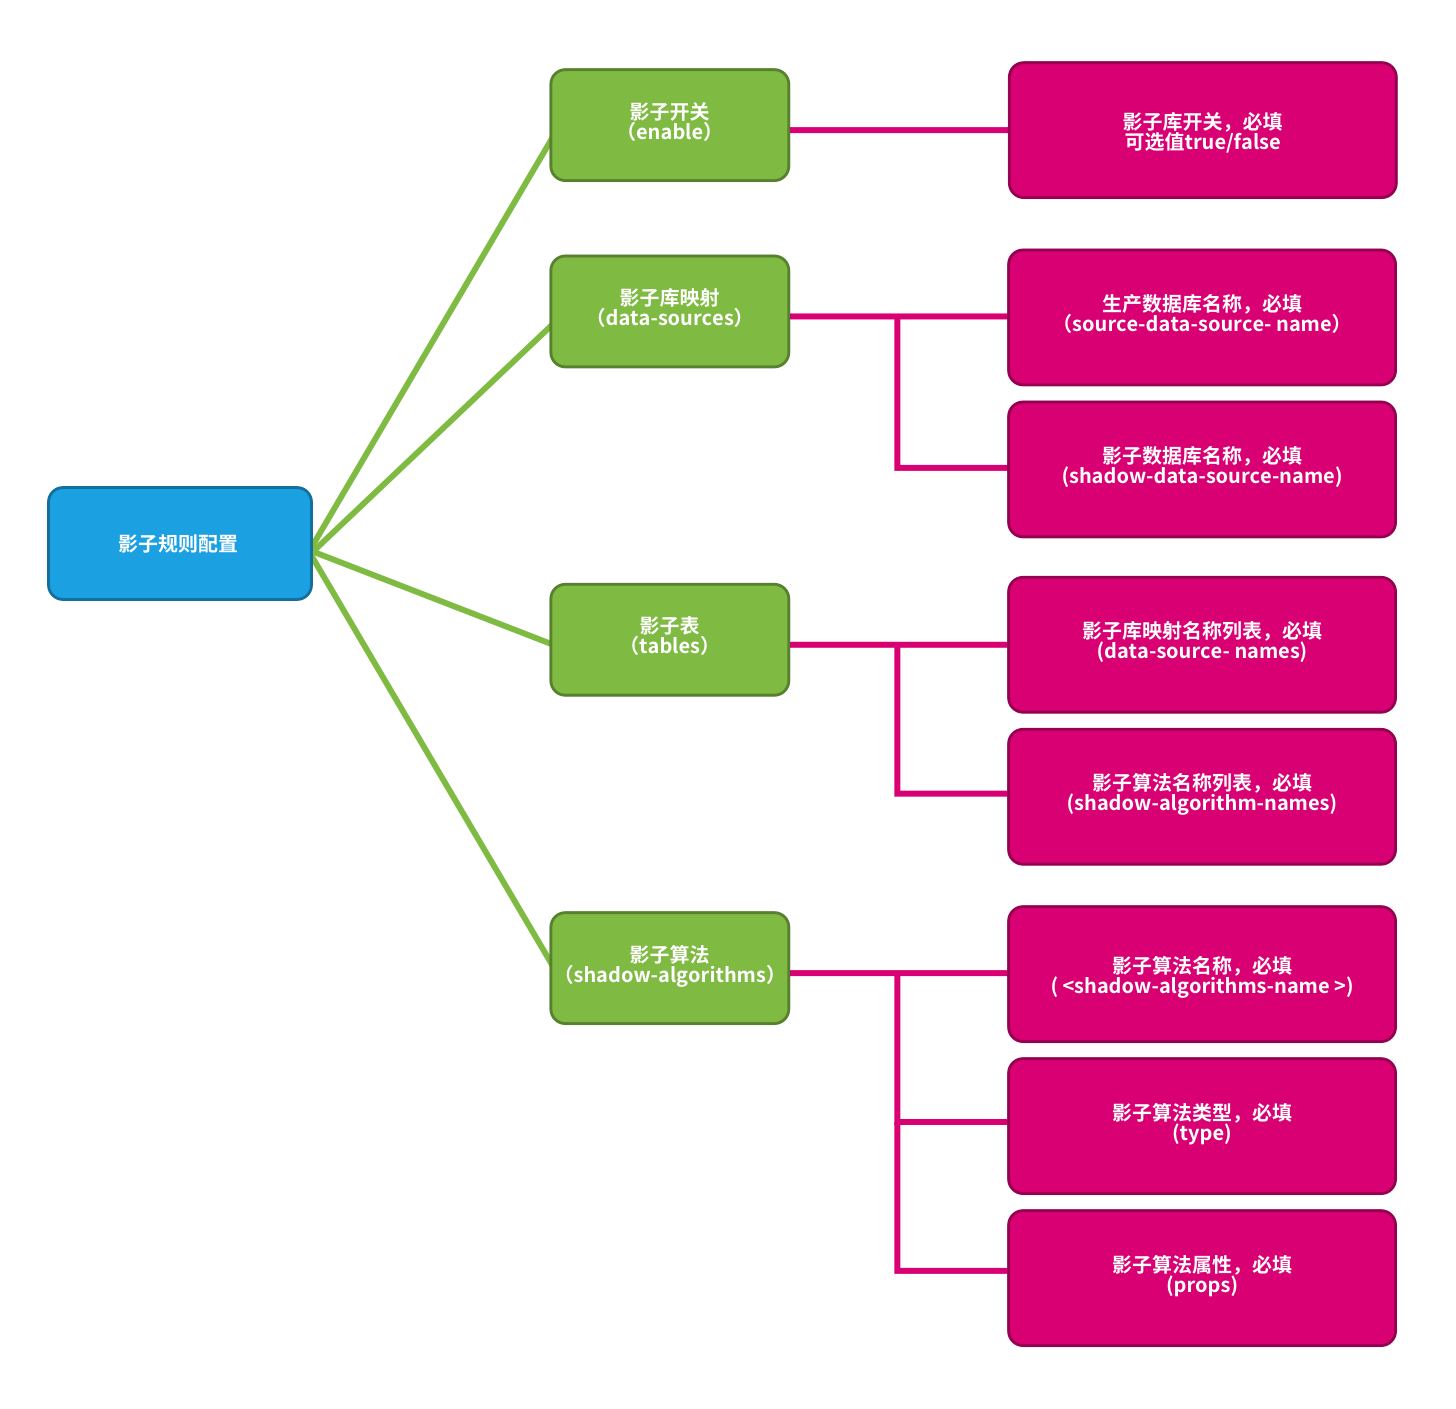
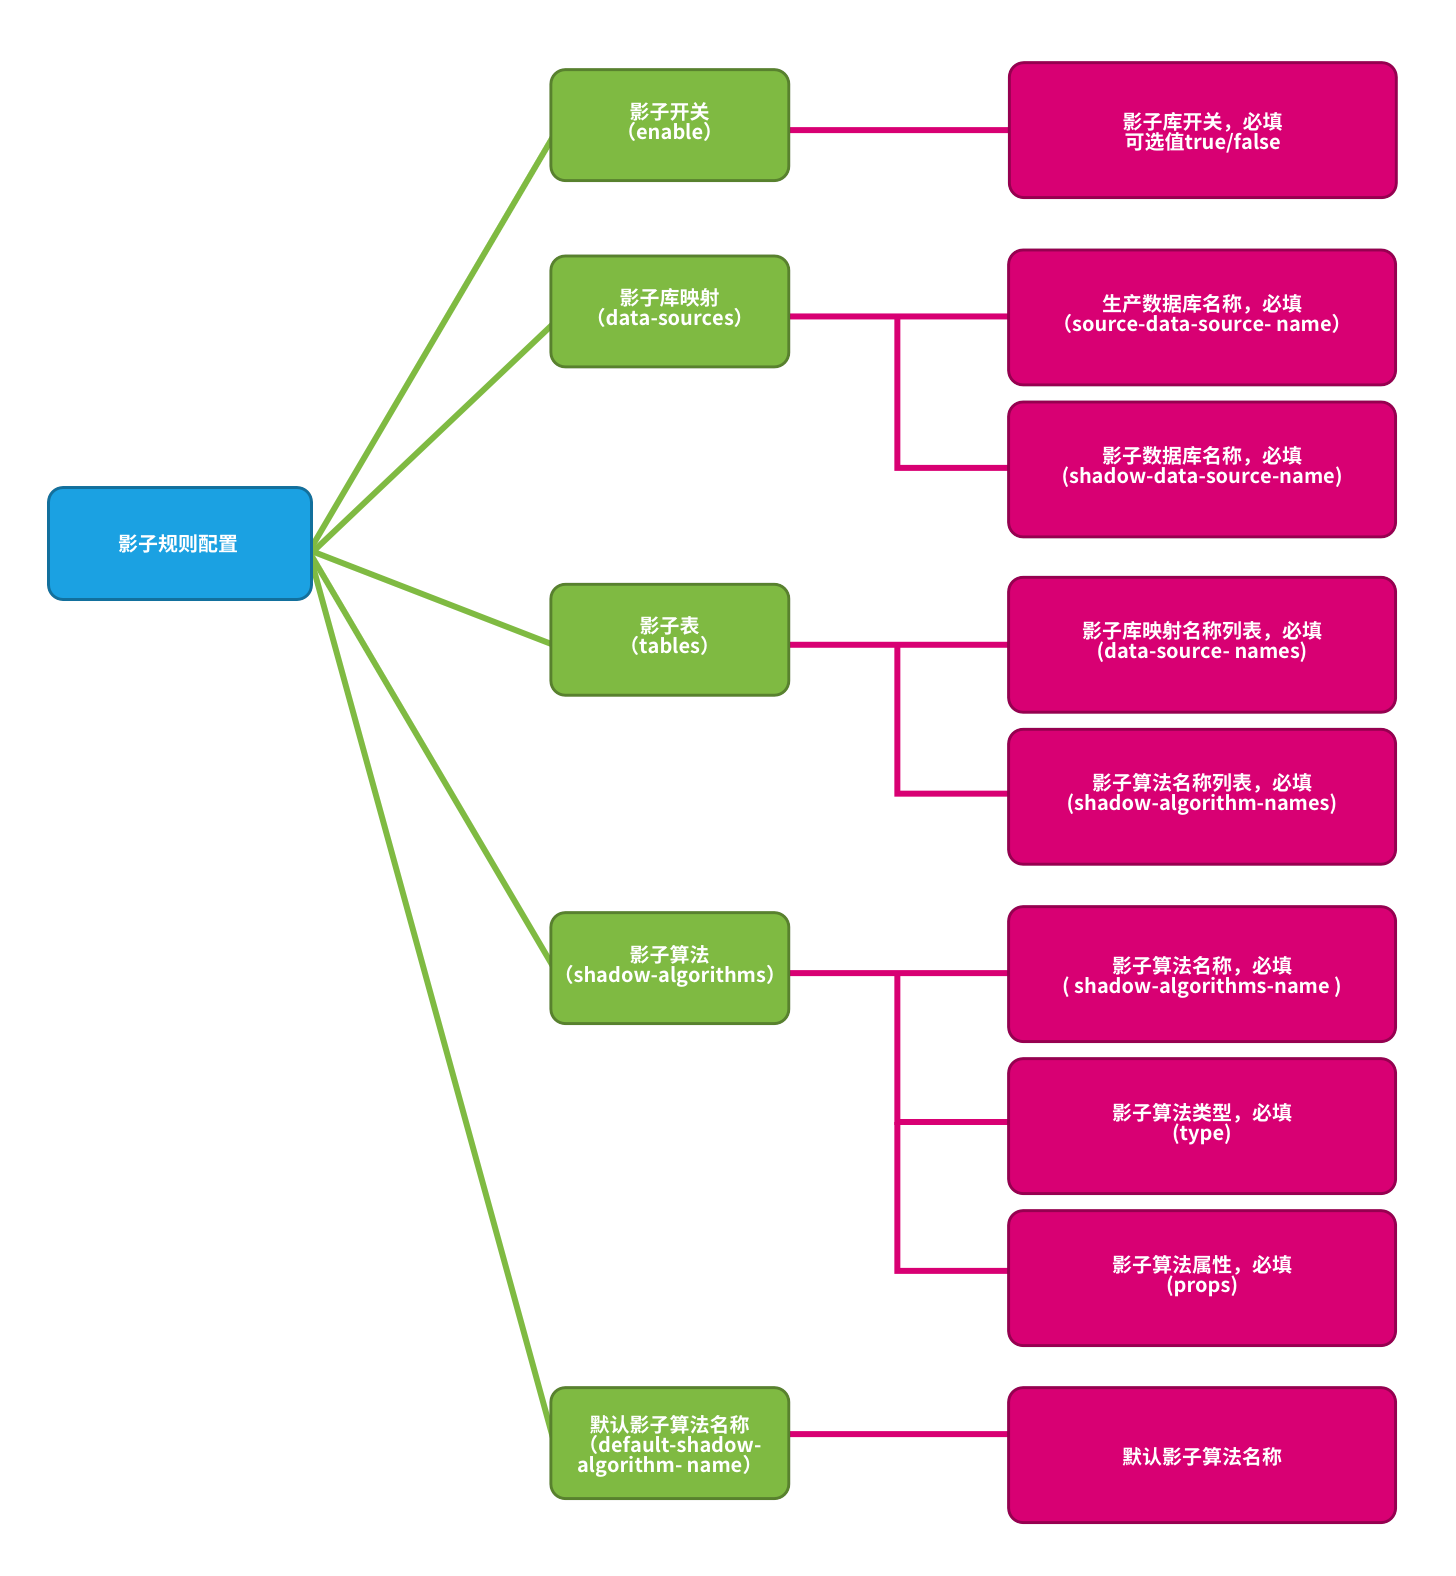
Update default shadow algorithm docs. (#13257)

Changed region(s): [[0.0309, 0.0312, 0.9581, 0.9681], [0.34, 0.7807, 0.3709, 0.8744], [0.3091, 0.687, 0.34, 0.7807]]

diff --git a/docs/document/content/user-manual/shardingsphere-jdbc/configuration/spring-namespace/shadow.en.md b/docs/document/content/user-manual/shardingsphere-jdbc/configuration/spring-namespace/shadow.en.md
@@ -14,6 +14,7 @@ Namespace: [http://shardingsphere.apache.org/schema/shardingsphere/shadow/shadow
 | id     | Attribute | Spring Bean Id |
 | enable | Attribute | Shadow function switch. Optional values: true/false, the default is false |
 | data-source(?)  | Tag | Shadow data source configuration |
+| default-shadow-algorithm-name(?)  | Tag  | Default shadow algorithm configuration |
 | shadow-table(?) | Tag | Shadow table configuration |
 
 \<shadow:data-source />
@@ -23,6 +24,11 @@ Namespace: [http://shardingsphere.apache.org/schema/shardingsphere/shadow/shadow
 | id | Attribute | Spring Bean Id |
 | source-data-source-name | Attribute | Production data source name |
 | shadow-data-source-name | Attribute | Shadow data source name |
+
+\<shadow:default-shadow-algorithm-name />
+| *Name* | *Type*  | *Description* |
+| ----- | ------ | ------ |
+| name | Attribute | Default shadow algorithm name |
 
 \<shadow:shadow-table />
 

diff --git a/docs/document/content/user-manual/shardingsphere-jdbc/configuration/spring-boot-starter/shadow.en.md b/docs/document/content/user-manual/shardingsphere-jdbc/configuration/spring-boot-starter/shadow.en.md
@@ -16,6 +16,8 @@ spring.shardingsphere.rules.shadow.data-sources.shadow-data-source.shadow-data-s
 spring.shardingsphere.rules.shadow.tables.<table-name>.data-source-names= # Shadow table location shadow data source names (multiple values are separated by ",")
 spring.shardingsphere.rules.shadow.tables.<table-name>.shadow-algorithm-names= # Shadow table location shadow algorithm names (multiple values are separated by ",")
 
+spring.shardingsphere.rules.shadow.defaultShadowAlgorithmName= # default shadow algorithm name，optional item.
+
 spring.shardingsphere.rules.shadow.shadow-algorithms.<shadow-algorithm-name>.type= # Shadow algorithm type
 spring.shardingsphere.rules.shadow.shadow-algorithms.<shadow-algorithm-name>.props.xxx= # Shadow algorithm property configuration
 ```

diff --git a/docs/document/content/user-manual/shardingsphere-jdbc/configuration/spring-namespace/shadow.cn.md b/docs/document/content/user-manual/shardingsphere-jdbc/configuration/spring-namespace/shadow.cn.md
@@ -14,6 +14,7 @@ weight = 4
 | id    | 属性    | Spring Bean Id |
 | enable | 属性   | Shadow功能开关。 可选值：true/false，默认为false |
 | data-source(?)  | 标签  | 影子数据源配置 |
+| default-shadow-algorithm-name(?)  | 标签  | 默认影子算法配置 |
 | shadow-table(?) | 标签  | 影子表配置 |
 
 \<shadow:data-source />
@@ -23,6 +24,11 @@ weight = 4
 | id | 属性 | Spring Bean Id |
 | source-data-source-name | 属性 | 生产数据源名称 |
 | shadow-data-source-name | 属性 | 影子数据源名称 |
+
+\<shadow:default-shadow-algorithm-name />
+| *名称* | *类型*  | *说明* |
+| ----- | ------ | ------ |
+| name | 属性 | 默认影子算法名称 |
 
 \<shadow:shadow-table />
 

diff --git a/docs/document/content/user-manual/shardingsphere-jdbc/configuration/spring-boot-starter/shadow.cn.md b/docs/document/content/user-manual/shardingsphere-jdbc/configuration/spring-boot-starter/shadow.cn.md
@@ -16,6 +16,8 @@ spring.shardingsphere.rules.shadow.data-sources.shadow-data-source.shadow-data-s
 spring.shardingsphere.rules.shadow.tables.<table-name>.data-source-names= # 影子表关联影子数据源名称列表（多个值用","隔开）
 spring.shardingsphere.rules.shadow.tables.<table-name>.shadow-algorithm-names= # 影子表关联影子算法名称列表（多个值用","隔开）
 
+spring.shardingsphere.rules.shadow.defaultShadowAlgorithmName= # 默认影子算法名称，选配项。
+
 spring.shardingsphere.rules.shadow.shadow-algorithms.<shadow-algorithm-name>.type= # 影子算法类型
 spring.shardingsphere.rules.shadow.shadow-algorithms.<shadow-algorithm-name>.props.xxx= # 影子算法属性配置
 ```

diff --git a/docs/document/content/user-manual/shardingsphere-jdbc/configuration/java-api/shadow.en.md b/docs/document/content/user-manual/shardingsphere-jdbc/configuration/java-api/shadow.en.md
@@ -14,6 +14,7 @@ Attributes:
 | enable | boolean    | Shadow DB function switch. Optional values: true/false |false|
 | dataSources | Map\<String, ShadowDataSourceConfiguration\> | Shadow data source mapping name and configuration | None |
 | tables | Map\<String, ShadowTableConfiguration\> | Shadow table name and configuration | None |
+| defaultShadowAlgorithmName | String | default shadow algorithm name | Option item |
 | shadowAlgorithms | Map\<String, ShardingSphereAlgorithmConfiguration\> | Shadow algorithm name and configuration | None |
 
 ## Shadow Data Source Configuration

diff --git a/docs/document/content/user-manual/shardingsphere-jdbc/configuration/java-api/shadow.cn.md b/docs/document/content/user-manual/shardingsphere-jdbc/configuration/java-api/shadow.cn.md
@@ -14,6 +14,7 @@ weight = 4
 | enable | boolean    | 影子库功能开关。可选值：true/false |false|
 | dataSources | Map\<String, ShadowDataSourceConfiguration\> | 影子数据源映射名称和配置 |无|
 | tables | Map\<String, ShadowTableConfiguration\> | 影子表名称和配置 |无|
+| defaultShadowAlgorithmName | String | 默认影子算法名称 | 选配项 |
 | shadowAlgorithms | Map\<String, ShardingSphereAlgorithmConfiguration\> | 影子算法名称和配置 |无|
 
 ## 影子数据源配置

diff --git a/docs/document/content/features/shadow/concept.en.md b/docs/document/content/features/shadow/concept.en.md
@@ -36,3 +36,9 @@ It is suitable for scenarios where the value of a field involved in the executed
 - Note shadow algorithm
 
 It is suitable for scenarios where the field values involved in executing SQL cannot meet certain matching conditions in the test.
+
+## Default Shadow Algorithm
+
+Default shadow algorithm, optional item. For the default matching algorithm that is not configured with the shadow algorithm table.
+
+**Note**: The default shadow algorithm only supports note shadow algorithm.

diff --git a/docs/document/content/user-manual/shardingsphere-jdbc/configuration/yaml/shadow.en.md b/docs/document/content/user-manual/shardingsphere-jdbc/configuration/yaml/shadow.en.md
@@ -21,6 +21,7 @@ rules:
           - <shadow-data-source> 
         shadowAlgorithmNames: # Shadow table location shadow algorithm names
           - <shadow-algorithm-name>
+    defaultShadowAlgorithmName: # Default shadow algorithm name
     shadowAlgorithms:
       <shadow-algorithm-name> (+): # Shadow algorithm name
         type: # Shadow algorithm type

diff --git a/docs/document/content/features/shadow/concept.cn.md b/docs/document/content/features/shadow/concept.cn.md
@@ -39,3 +39,9 @@ weight = 1
 优点：用户可以不确定链路上执行SQL细节，只要知道那个SQL执行即可。
 
 不足：用户需要改代码或者SQL
+
+## 默认影子算法
+
+默认影子算法，选配项。对于没有配置影子算法表的默认匹配算法。
+
+**注意**：默认影子算法仅支持注解影子算法。

diff --git a/docs/document/content/reference/shadow/_index.en.md b/docs/document/content/reference/shadow/_index.en.md
@@ -26,6 +26,7 @@ The shadow table needs to specify the corresponding shadow library mapping and s
 
 **shadow-algorithms**：SQL routing shadow algorithm.
 
+**default-shadow-algorithm-name**：Default shadow algorithm, optional item. For the default matching algorithm that is not configured with the shadow algorithm table.
 
 ## Routing Process
 

diff --git a/docs/document/content/user-manual/shardingsphere-jdbc/configuration/yaml/shadow.cn.md b/docs/document/content/user-manual/shardingsphere-jdbc/configuration/yaml/shadow.cn.md
@@ -21,6 +21,7 @@ rules:
         - <shadow-data-source> 
       shadowAlgorithmNames: # 影子表关联影子算法名称列表
         - <shadow-algorithm-name>
+  defaultShadowAlgorithmName: # 默认影子算法名称
   shadowAlgorithms:
     <shadow-algorithm-name> (+): # 影子算法名称
       type: # 影子算法类型
